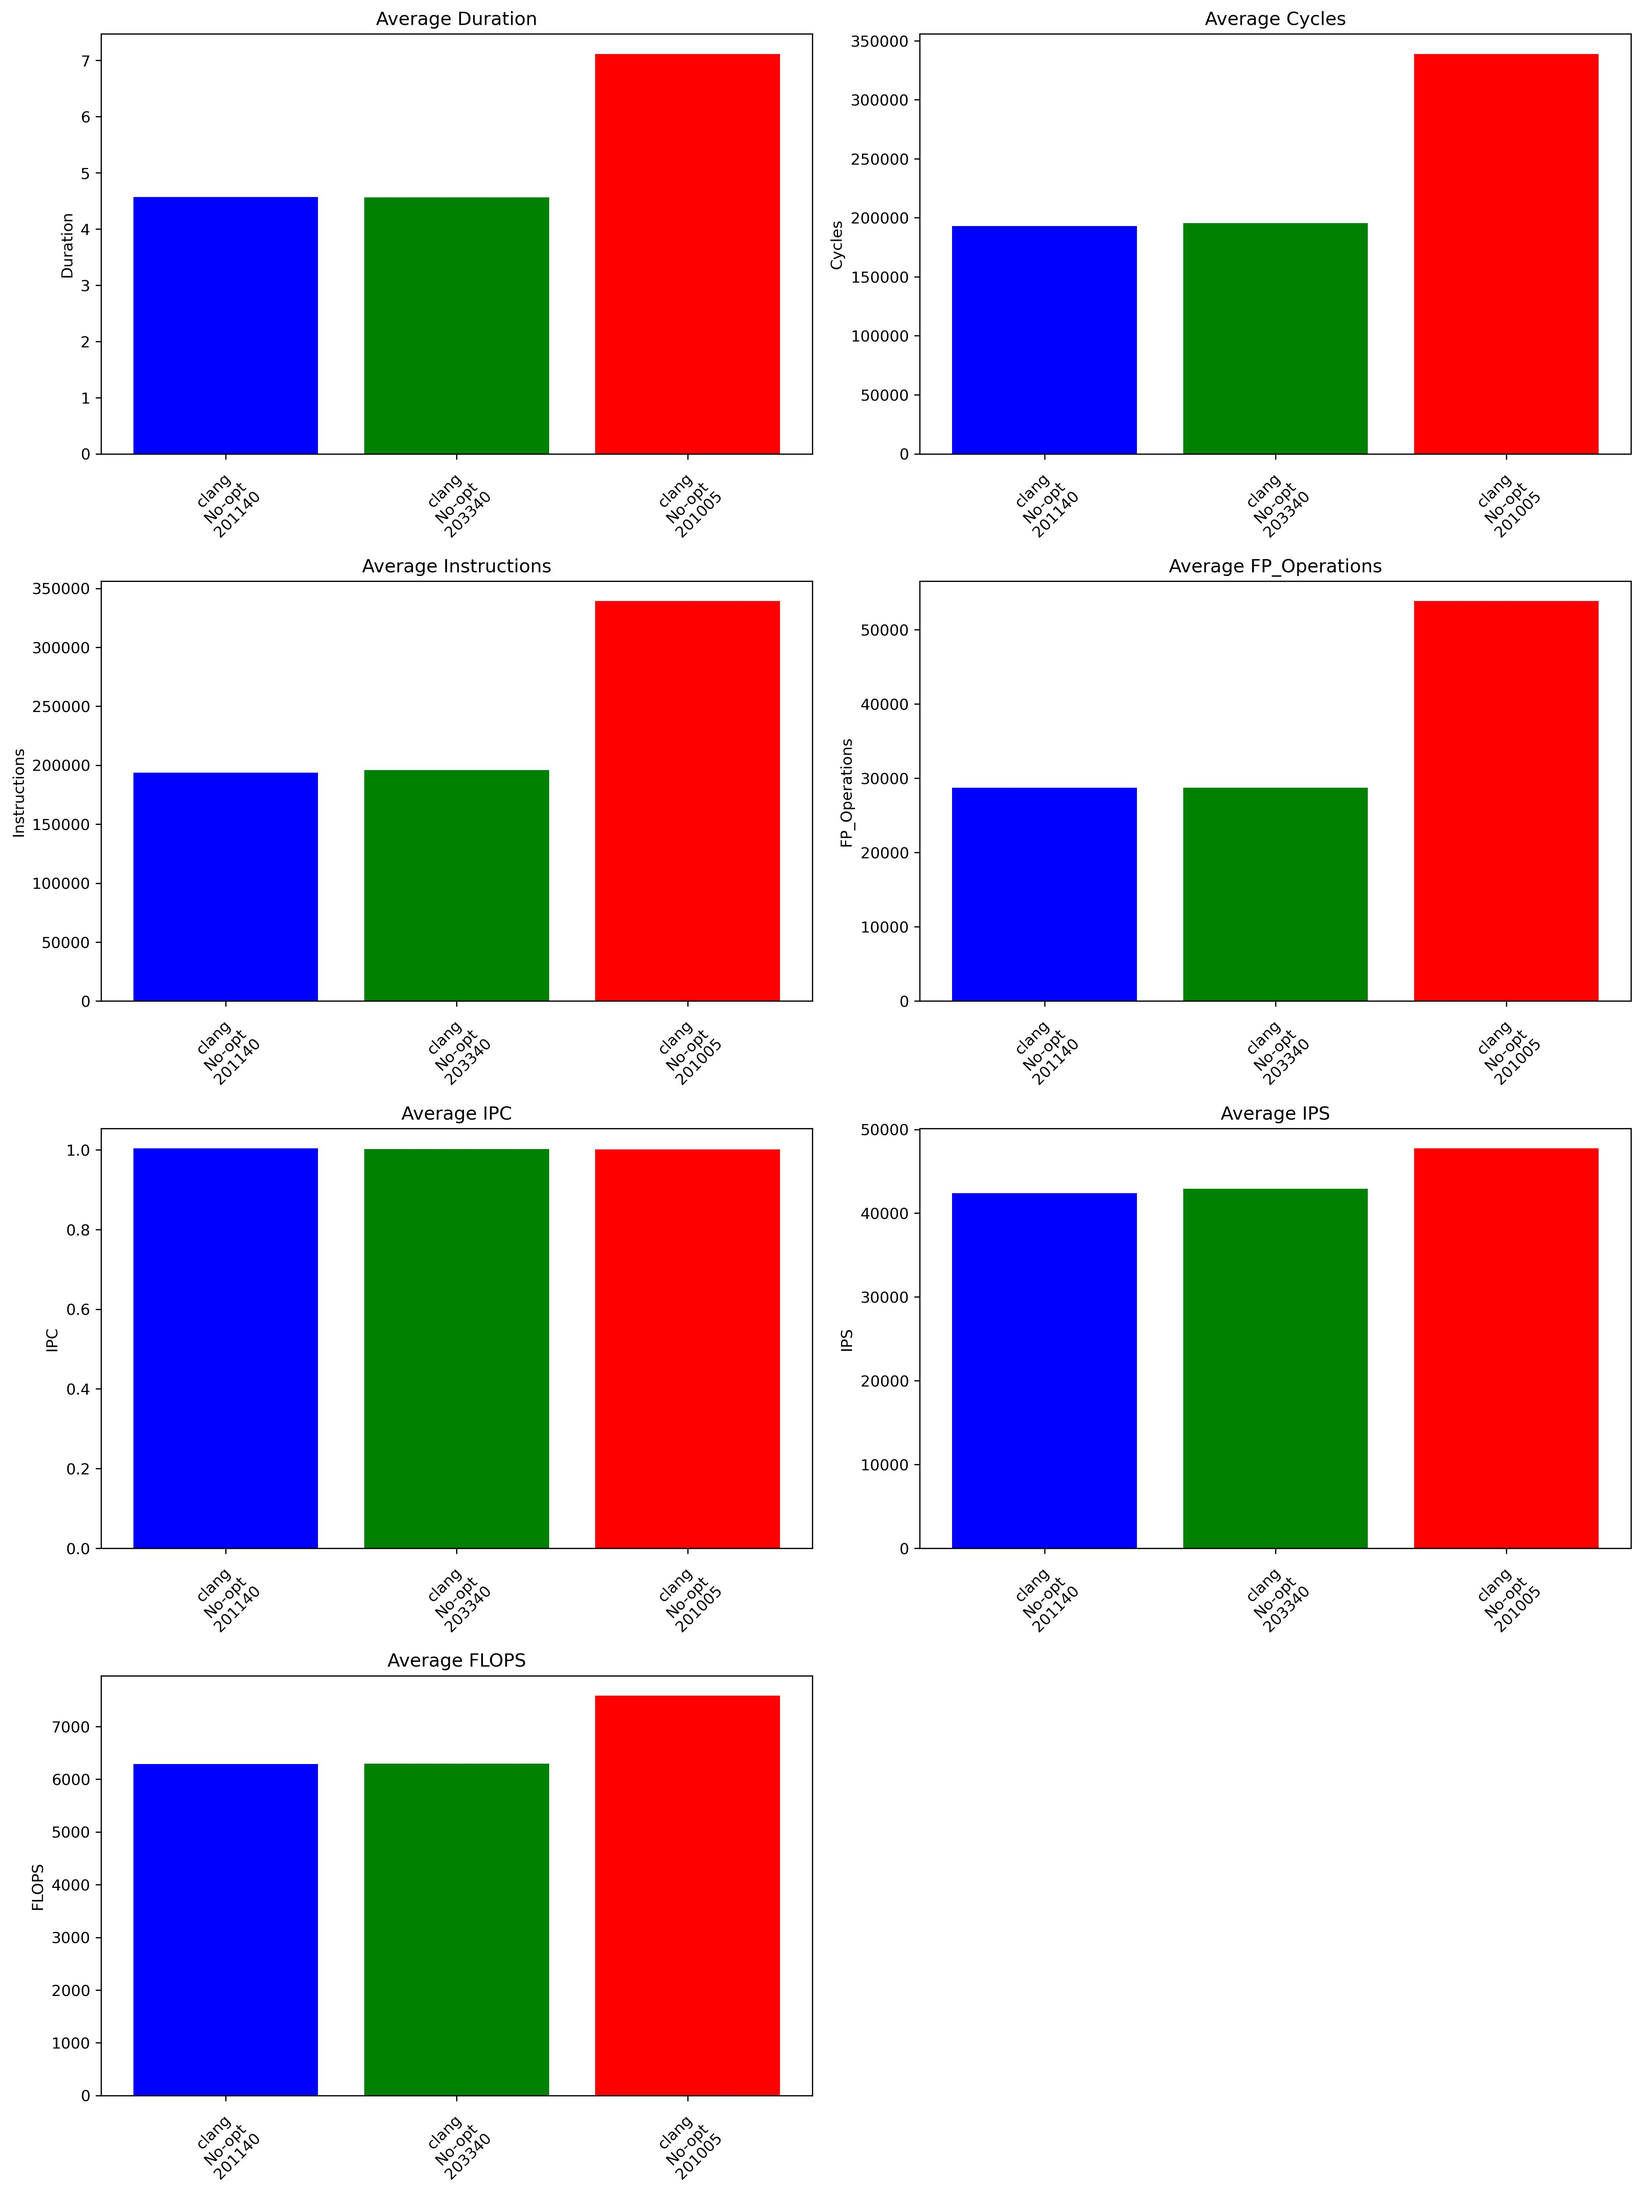
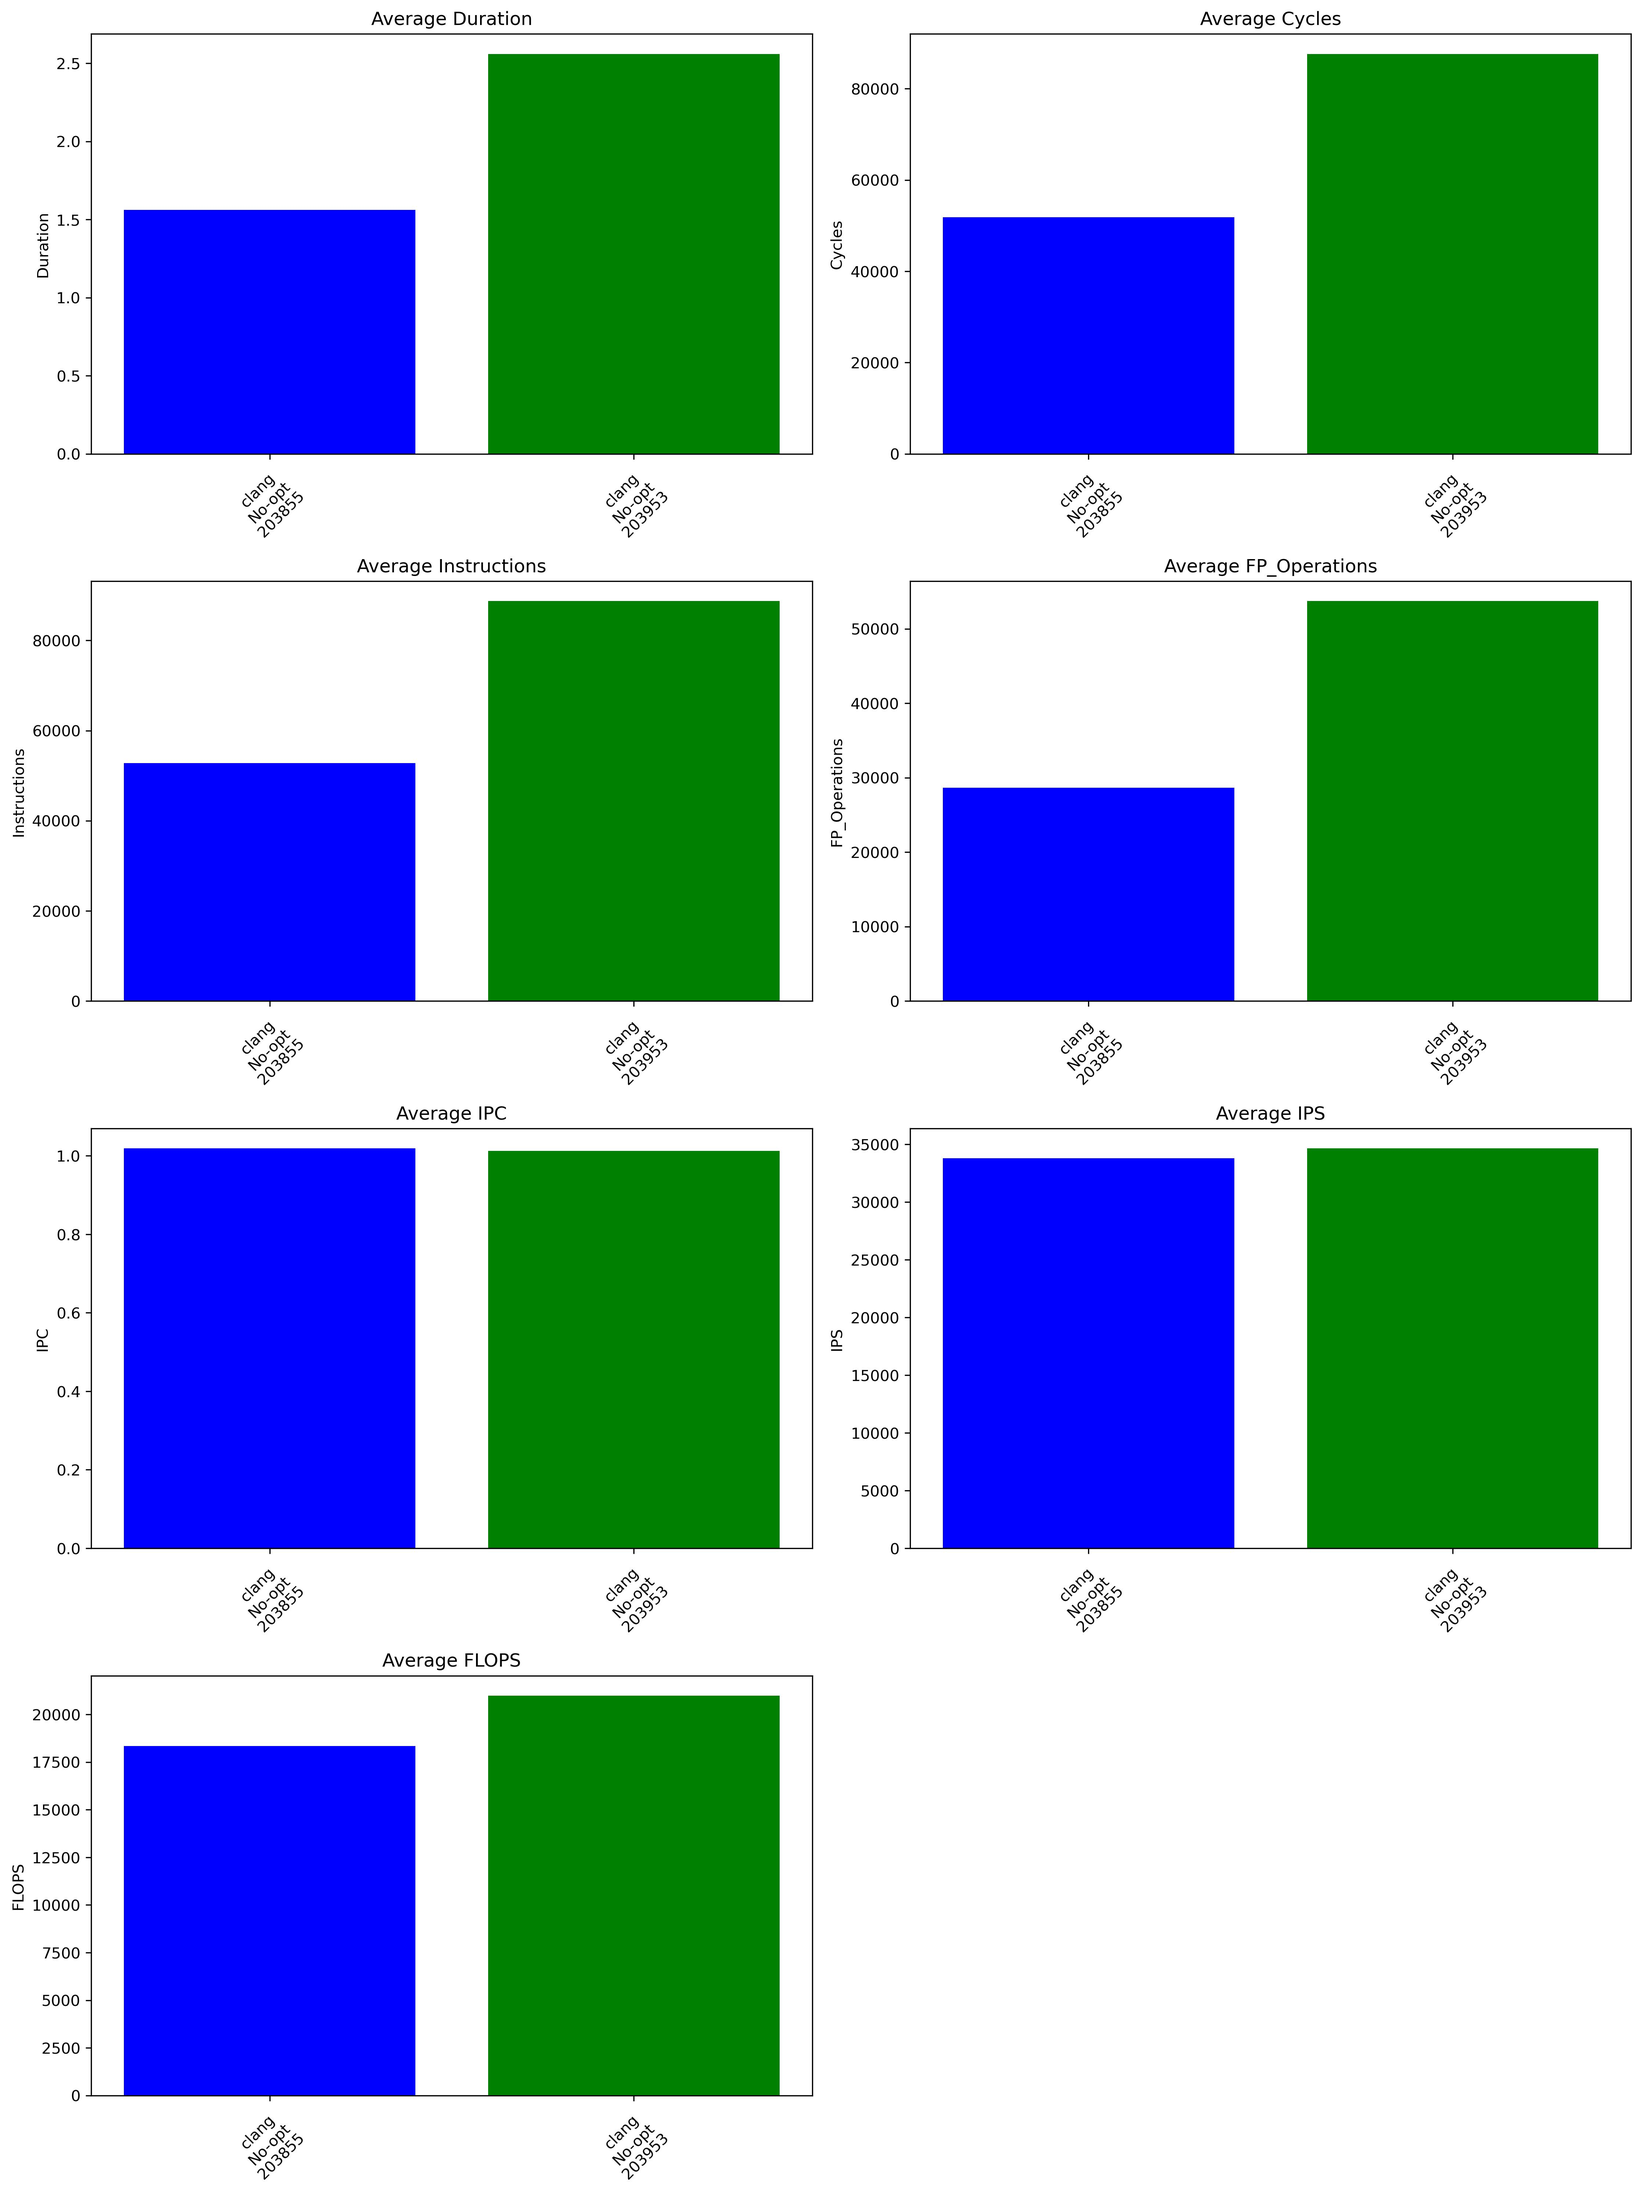
metricas

diff --git a/src/spread_functions.cpp b/src/spread_functions.cpp
@@ -69,14 +69,6 @@ Fire simulate_fire(
     burned_bin[{ cell_0, cell_1 }] = 1;
   }
 
-  // Directions for the 8 neighbors declared previous to the loop
-  constexpr int moves[8][2] = { { -1, -1 }, { -1, 0 }, { -1, 1 }, { 0, -1 },
-                                { 0, 1 },   { 1, -1 }, { 1, 0 },  { 1, 1 } };
-
-  // Angles for the 8 neighbors declared previous to the loop
-  constexpr double angles[8] = { M_PI * 3 / 4, M_PI, M_PI * 5 / 4, M_PI / 2, M_PI * 3 / 2,
-                                 M_PI / 4,     0,    M_PI * 7 / 4 };
-
   while (burning_size > 0) {
     size_t end_forward = end;
 
@@ -90,23 +82,42 @@ Fire simulate_fire(
 
       const Cell& burning_cell = landscape[{ burning_cell_0, burning_cell_1 }];
 
-      // Loop over neighbors of the focal burning cell
+      constexpr int moves[8][2] = { { -1, -1 }, { -1, 0 }, { -1, 1 }, { 0, -1 },
+                                    { 0, 1 },   { 1, -1 }, { 1, 0 },  { 1, 1 } };
+
+      int neighbors_coords[2][8];
+
+      for (size_t i = 0; i < 8; i++) {
+        neighbors_coords[0][i] = int(burning_cell_0) + moves[i][0];
+        neighbors_coords[1][i] = int(burning_cell_1) + moves[i][1];
+      }
+      // Note that in the case 0 - 1 we will have size_t_MAX
+
+      // Loop over neighbors_coords of the focal burning cell
+
       for (size_t n = 0; n < 8; n++) {
-        int neighbour_cell_0 = int(burning_cell_0) + moves[n][0];
-        int neighbour_cell_1 = int(burning_cell_1) + moves[n][1];
+
+        int neighbour_cell_0 = neighbors_coords[0][n];
+        int neighbour_cell_1 = neighbors_coords[1][n];
 
         // Is the cell in range?
-        if (neighbour_cell_0 < 0 || neighbour_cell_0 >= int(n_row) || neighbour_cell_1 < 0 ||
-            neighbour_cell_1 >= int(n_col)) {
+        bool out_of_range = 0 > neighbour_cell_0 || neighbour_cell_0 >= int(n_col) ||
+                            0 > neighbour_cell_1 || neighbour_cell_1 >= int(n_row);
+
+        if (out_of_range)
           continue;
-        }
 
         const Cell& neighbour_cell = landscape[{ neighbour_cell_0, neighbour_cell_1 }];
 
         // Is the cell burnable?
-        if (burned_bin[{ neighbour_cell_0, neighbour_cell_1 }] || !neighbour_cell.burnable) {
+        bool burnable_cell =
+            !burned_bin[{ neighbour_cell_0, neighbour_cell_1 }] && neighbour_cell.burnable;
+
+        if (!burnable_cell)
           continue;
-        }
+
+        constexpr double angles[8] = { M_PI * 3 / 4, M_PI, M_PI * 5 / 4, M_PI / 2, M_PI * 3 / 2,
+                                       M_PI / 4,     0,    M_PI * 7 / 4 };
 
         // simulate fire
         double prob = spread_probability(
@@ -115,9 +126,10 @@ Fire simulate_fire(
         );
 
         // Burn with probability prob (Bernoulli)
-        if ((double)rand() / (double)RAND_MAX >= prob) {
+        bool burn = (double)rand() / (double)RAND_MAX < prob;
+
+        if (burn == 0)
           continue;
-        }
 
         // If burned, store id of recently burned cell and set 1 in burned_bin
         end_forward += 1;
